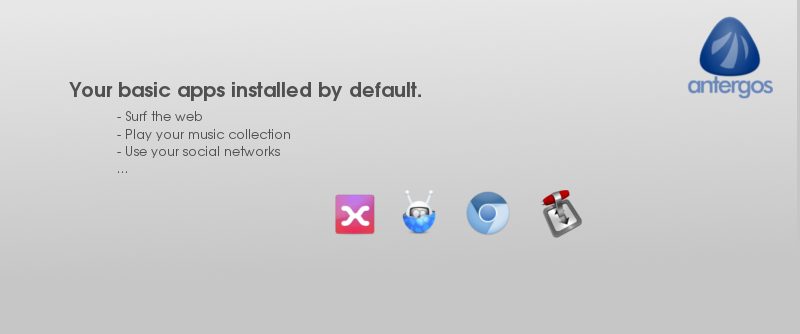
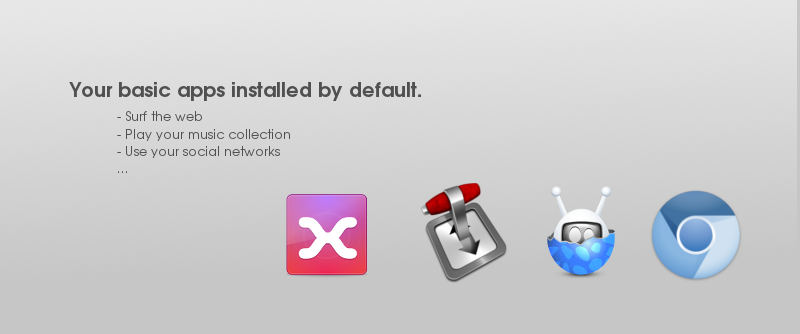
Fixed fade-out times in new slides. Corrected some images

diff --git a/data/css/slides-style.css b/data/css/slides-style.css
@@ -24,23 +24,34 @@
     background-repeat: none;
     opacity: 0;
     z-index: 0;
-	-webkit-backface-visibility: hidden;
-    -webkit-animation: imageAnimation 30s linear infinite 0s;
+    -webkit-backface-visibility: hidden;
+    -webkit-animation: imageAnimation 36s linear infinite 0s;
+    -moz-animation: imageAnimation 36s linear infinite 0s;
+    -o-animation: imageAnimation 36s linear infinite 0s;
+    -ms-animation: imageAnimation 36s linear infinite 0s;
+    animation: imageAnimation 36s linear infinite 0s; 
 }
 
 
 .cb-slideshow li:nth-child(1) span { 
-    background-image: url(/usr/share/cnchi/data/images/1.png) 
+    background-image: url(../images/1.png) 
 }
 .cb-slideshow li:nth-child(2) span { 
-    background-image: url(/usr/share/cnchi/data/images/2.png) 
-    -webkit-animation-delay: 10s;
+    background-image: url(../images/2.png);
+    -webkit-animation-delay: 12s;
+    -moz-animation-delay: 12s;
+    -o-animation-delay: 12s;
+    -ms-animation-delay: 12s;
+    animation-delay: 12s; 
 }
 .cb-slideshow li:nth-child(3) span { 
-    background-image: url(/usr/share/cnchi/data/images/3.png) 
-    -webkit-animation-delay: 20s;
+    background-image: url(../images/3.png);
+    -webkit-animation-delay: 24s;
+    -moz-animation-delay: 24s;
+    -o-animation-delay: 24s;
+    -ms-animation-delay: 24s;
+    animation-delay: 24s; 
 }
-
 
 /* Animation for the slideshow images */
 @-webkit-keyframes imageAnimation { 
@@ -48,24 +59,20 @@
     -webkit-animation-timing-function: ease-in; }
     2% { opacity: 1;
          -webkit-animation-timing-function: ease-out; }
-    80% { opacity: 1 }
-    90% { opacity: 0 }
+    30% { opacity: 1 }
+    34% { opacity: 0 }
     100% { opacity: 0 }
 }
 
-
-/* Show at least something when animations not supported */
-.no-cssanimations .cb-slideshow li span{
-	background-image: url(/usr/share/cnchi/data/images/background.png);
+@keyframes imageAnimation { 
+    0% { opacity: 0;
+    animation-timing-function: ease-in; }
+    2% { opacity: 1;
+         animation-timing-function: ease-out; }
+    30% { opacity: 1 }
+    34% { opacity: 0 }
+    100% { opacity: 0 }
 }
-
-@media screen and (max-width: 1140px) { 
-    .cb-slideshow li div h3 { font-size: 140px }
-}
-@media screen and (max-width: 600px) { 
-    .cb-slideshow li div h3 { font-size: 80px }
-}
-
 
 
 
@@ -79,23 +86,11 @@ html,body {
     margin:0;
     padding:0;
 }
-table {
-    border-collapse:collapse;
-    border-spacing:0;
-}
+
 fieldset,img { 
     border:0;
 }
-input{
-    border:1px solid #b0b0b0;
-    padding:3px 5px 4px;
-    color:#979797;
-    width:190px;
-}
-address,caption,cite,code,dfn,th,var {
-    font-style:normal;
-    font-weight:normal;
-}
+
 ol,ul {
     list-style:none;
 }
@@ -113,7 +108,7 @@ abbr,acronym { border:0;
 }
 /* General Demo Style */
 body{
-    background-image: url(/usr/share/cnchi/data/images/background.png);
+    background-image: url(../images/background.png);
     font-weight: 400;
     font-size: 15px;
     color: #aa3e03;
@@ -125,4 +120,3 @@ a{
     color: #333;
     text-decoration: none;
 }
-

diff --git a/data/slides.html b/data/slides.html
@@ -12,6 +12,9 @@
             <li><span>Image 01</span></li>
             <li><span>Image 02</span></li>
             <li><span>Image 03</span></li>
+            <li><span>Image 04</span></li>
+            <li><span>Image 05</span></li>
+            <li><span>Image 06</span></li>
         </ul>
     </body>
 </html>
